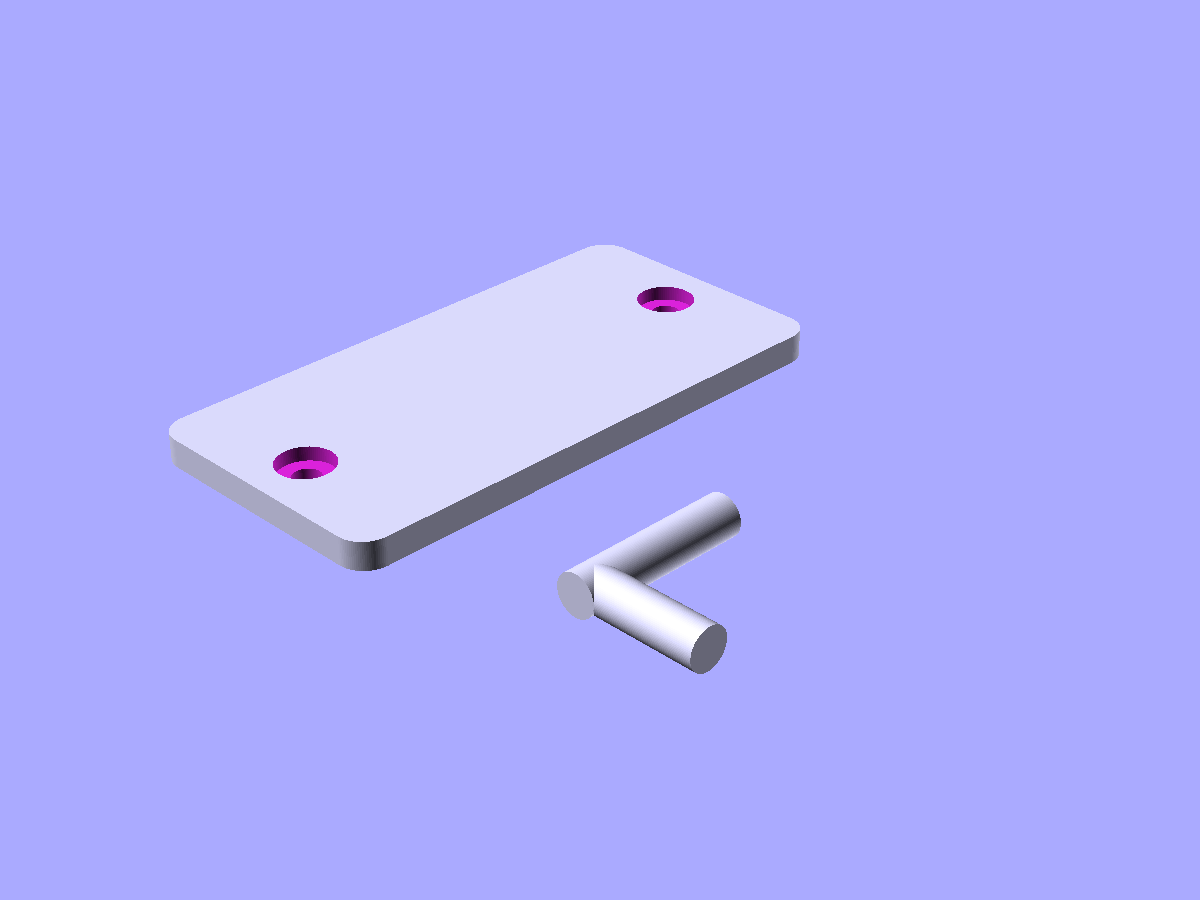
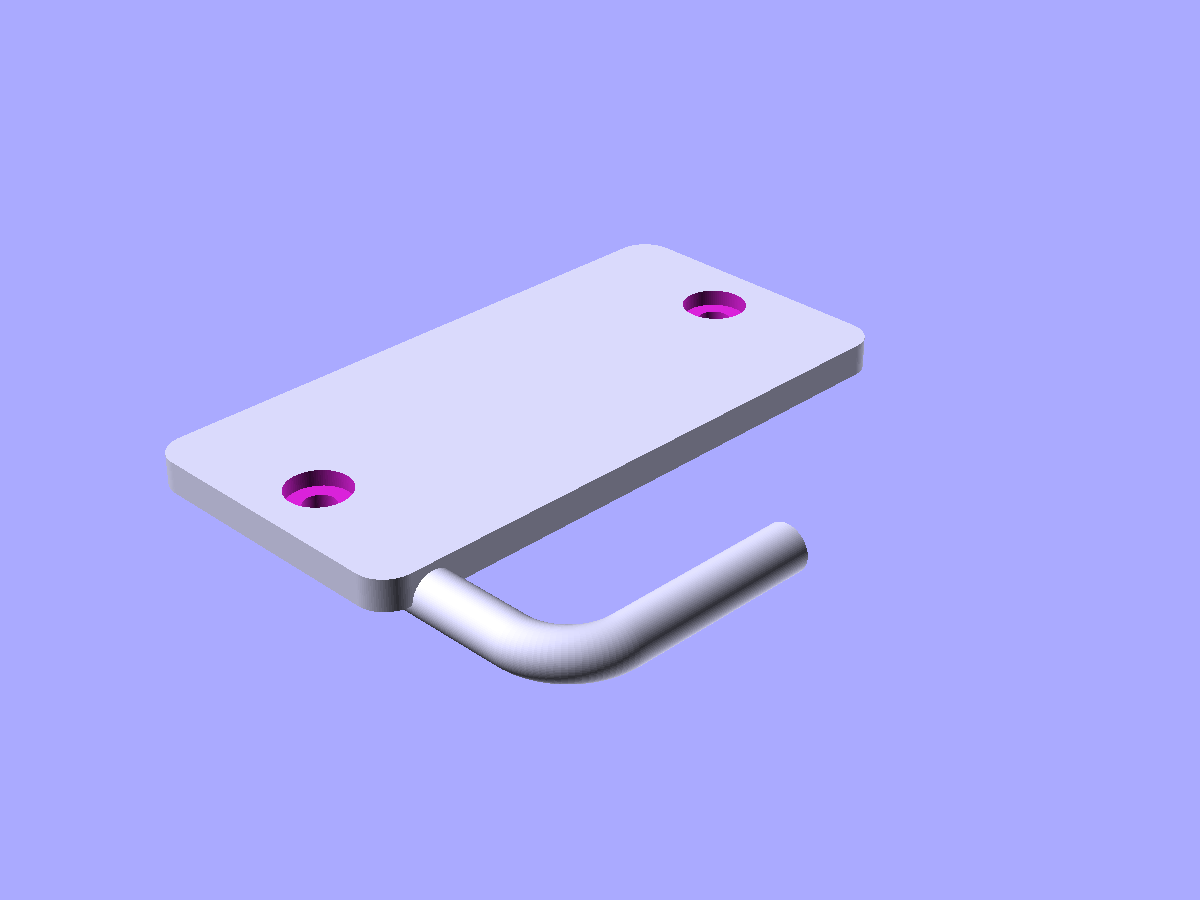
example/wall-hook: round the J-hook elbow with Torus(angle=90)
Previous JHook was two cylinders meeting at a sharp right angle.
Replace the sharp corner with a quarter-toroid elbow, composed from
the existing shape-library `Torus(angle=90)` rotated into the XZ
plane and translated to sit at the top of the stem.

No library changes needed -- `Torus` already supports partial sweep
angles via its `angle` param. The JHook build gains three transforms
(rotate + translate for the elbow, rotate + translate for the
repositioned tip) but stays under 20 lines and keeps the anchor
demonstration as the focus of the example.

New `elbow_r` parameter in the equations block with a cross-constraint
(`elbow_r > stem_d / 2`) so the bend's inner edge stays positive.
MyJHook pins it at 8 mm against a 6 mm stem diameter.

README bullet added noting the Torus usage; beauty shots regenerated.

Changed region(s): [[0.1233, 0.2489, 0.74, 0.7778]]

diff --git a/examples/wall-hook.py b/examples/wall-hook.py
@@ -16,7 +16,7 @@ from scadwright import Component, anchor, bbox
 from scadwright.boolops import difference, union
 from scadwright.design import Design, run, variant
 from scadwright.primitives import cylinder
-from scadwright.shapes import rounded_rect
+from scadwright.shapes import Torus, rounded_rect
 
 
 # =============================================================================
@@ -62,23 +62,36 @@ class WallPlate(Component):
 
 
 class JHook(Component):
-    """A J-hook: vertical stem with a perpendicular tip at the top,
-    forming an inverted-L hook shape."""
+    """A J-hook: vertical stem, quarter-torus elbow, perpendicular tip."""
 
-    equations = ["stem_d, stem_len, tip_len > 0"]
+    equations = [
+        "stem_d, stem_len, tip_len, elbow_r > 0",
+        "elbow_r > stem_d / 2",                           # bend must clear the tube's inner edge
+    ]
 
     # Base of the stem, pointing -Z so attach() mates cleanly with a +Z
     # face anchor on the parent.
     base = anchor(at="0, 0, 0", normal=(0, 0, -1))
 
     def build(self):                                       # framework hook: required; returns the shape
+        R = self.elbow_r
         stem = cylinder(h=self.stem_len, d=self.stem_d)
+        # Quarter-torus elbow: Torus natively sweeps in the XY plane, so
+        # rotate it into the XZ plane and translate so its "stem" end lands
+        # at the top of the stem.
+        elbow = (
+            Torus(major_r=R, minor_r=self.stem_d / 2, angle=90)
+            .rotate([90, 0, 0])
+            .translate([-R, 0, self.stem_len])
+        )
+        # Tip continues the elbow's outgoing tangent (-X direction) from the
+        # far end of the bend.
         tip = (
             cylinder(h=self.tip_len, d=self.stem_d)
-            .rotate([0, 90, 0])                            # axis Z -> X
-            .up(self.stem_len - self.stem_d / 2)           # seat the tip flush with the stem's top
+            .rotate([0, -90, 0])
+            .translate([-R, 0, self.stem_len + R])
         )
-        return union(stem, tip)
+        return union(stem, elbow, tip)
 
 
 # =============================================================================
@@ -100,6 +113,7 @@ class MyJHook(JHook):
     stem_d = 6
     stem_len = 25
     tip_len = 18
+    elbow_r = 8
 
 
 # =============================================================================

diff --git a/examples/README.md b/examples/README.md
@@ -90,6 +90,7 @@ A wall-mount coat hook: a plate with two countersunk screw holes and a J-hook th
 - Class-scope `anchor(at=..., normal=...)` declarations on both Components -- `WallPlate.hook_mount` and `JHook.base`
 - A second anchor (`WallPlate.top_edge`) published purely for extensibility, unused by this example but showing that a reusable Component can declare multiple attachment points
 - `attach(parent, face="hook_mount", fuse=True)` picks a specific anchor on the parent; the normals already oppose, so no `orient=True` is needed
+- `Torus(angle=90)` from the shape library composes a smooth quarter-toroid elbow between the stem and tip
 - `.through(parent, axis="z")` on both the screw-hole shafts and countersink cutters -- no manual EPS
 
 ![Wall hook](images/CoatHook.png)
